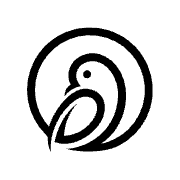
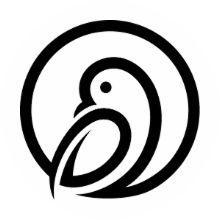
Improve image preloading and loading states in gallery and home
Refactored Gallery and Home components to preload images asynchronously and show loader only after a short delay, improving perceived performance and preventing flicker. Enhanced error handling and code readability. Updated apple-touch-icon.png.

diff --git a/frontend/src/components/Gallery/Gallery.tsx b/frontend/src/components/Gallery/Gallery.tsx
@@ -11,10 +11,10 @@ import Lightbox from "yet-another-react-lightbox";
 import Fullscreen from "yet-another-react-lightbox/plugins/fullscreen";
 import Slideshow from "yet-another-react-lightbox/plugins/slideshow";
 import "yet-another-react-lightbox/styles.css";
-// dnd-kit (drag and drop kit)
+// dnd-kit
 import { arrayMove } from "@dnd-kit/sortable";
 import SortableGallery from "../SortableGallery/SortableGallery";
-import { useResponsiveRowHeight } from "../../hooks/useResponsiveRowHeight"; //
+import { useResponsiveRowHeight } from "../../hooks/useResponsiveRowHeight";
 // Sanity
 import sanityClient from "../../sanityClient";
 
@@ -36,39 +36,29 @@ const Gallery = () => {
   const targetRowHeight = useResponsiveRowHeight();
   const { id } = useParams<{ id: string }>();
   const [photos, setPhotos] = useState<
-    {
-      id: string;
-      src: string;
-      alt: string;
-      width: number;
-      height: number;
-      lqip?: string;
-    }[]
+    { id: string; src: string; alt: string; width: number; height: number; lqip?: string }[]
   >([]);
-
   const [index, setIndex] = useState<number | null>(null);
   const [loading, setLoading] = useState(true);
+  const [imagesLoaded, setImagesLoaded] = useState(false);
   const [showLoader, setShowLoader] = useState(false);
 
-  // save order after photo drag and srop
+  // Save new order after drag & drop
   async function saveOrderToSanity(newPhotos: { id: string }[]) {
     try {
-      const newOrder = newPhotos.map((p) => ({
-        _type: "reference",
-        _ref: p.id,
-      }));
-
+      const newOrder = newPhotos.map((p) => ({ _type: "reference", _ref: p.id }));
       await sanityClient.patch(id!).set({ photos: newOrder }).commit();
-
       console.log("Saved new order to Sanity:", newOrder);
     } catch (err) {
       console.error("Error saving new photo order:", err);
     }
   }
 
+  // Fetch photos from Sanity
   useEffect(() => {
     async function fetchPhotos() {
       setLoading(true);
+      setImagesLoaded(false);
       try {
         const query = `*[_type == "album" && _id == $id][0]{
           title,
@@ -86,12 +76,11 @@ const Gallery = () => {
             }
           }
         }`;
-
-        const album: { photos?: Photo[] } = await sanityClient.fetch(query, {
-          id,
-        });
-        if (!album?.photos) return;
-
+        const album: { photos?: Photo[] } = await sanityClient.fetch(query, { id });
+        if (!album?.photos) {
+          setPhotos([]);
+          return;
+        }
         const mapped = album.photos.map((item) => ({
           id: item._id,
           src: item.image.asset.url,
@@ -100,40 +89,85 @@ const Gallery = () => {
           height: item.image.asset.metadata.dimensions.height,
           lqip: item.image.asset.metadata.lqip,
         }));
-
         setPhotos(mapped);
-        setLoading(false);
       } catch (err) {
         console.error("Error fetching photos:", err);
+        setPhotos([]);
+      } finally {
+        setLoading(false);
       }
     }
 
     fetchPhotos();
   }, [id]);
 
+  // Preload all images
+  useEffect(() => {
+    if (photos.length === 0) {
+      setImagesLoaded(false);
+      return;
+    }
+
+    let isCancelled = false;
+
+    async function preloadImages() {
+      try {
+        const promises = photos.map(
+          (photo) =>
+            new Promise<void>((resolve) => {
+              const img = new Image();
+              img.src = photo.src;
+              if (img.complete) {
+                resolve();
+              } else {
+                img.onload = () => resolve();
+                img.onerror = () => resolve();
+              }
+            })
+        );
+        await Promise.all(promises);
+        if (!isCancelled) setImagesLoaded(true);
+      } catch (err) {
+        console.error("Error preloading images:", err);
+        if (!isCancelled) setImagesLoaded(true); // fail-safe
+      }
+    }
+
+    preloadImages();
+
+    return () => {
+      isCancelled = true;
+    };
+  }, [photos]);
+
+  // Show loader after a short delay to prevent flicker
   useEffect(() => {
     const t = setTimeout(() => setShowLoader(true), 200);
     return () => clearTimeout(t);
   }, []);
 
+  // Early return until data & images are loaded
+  if (loading || !imagesLoaded) {
+    return (
+      <>
+        <StickyLinks />
+        {showLoader && <Loader />}
+      </>
+    );
+  }
+
   return (
     <>
       <StickyLinks />
-      {showLoader && loading && <Loader />}
-
       <SortableGallery
         gallery={RowsPhotoAlbum}
         spacing={10}
         photos={photos}
-        layoutOptions={{
-          targetRowHeight,
-        }}
+        layoutOptions={{ targetRowHeight }}
         onClick={({ index: photoIndex }) => setIndex(photoIndex)}
         movePhoto={(oldIndex, newIndex) => {
           const newOrder = arrayMove(photos, oldIndex, newIndex);
           setPhotos(newOrder);
-
-          // Save to Sanity:
           saveOrderToSanity(newOrder);
         }}
       />
@@ -144,10 +178,7 @@ const Gallery = () => {
           close={() => setIndex(null)}
           plugins={[Fullscreen, Slideshow]}
           index={index}
-          slides={photos.map((p) => ({
-            src: p.src,
-            title: p.alt,
-          }))}
+          slides={photos.map((p) => ({ src: p.src, title: p.alt }))}
         />
       )}
     </>

diff --git a/frontend/src/components/Home/Home.tsx b/frontend/src/components/Home/Home.tsx
@@ -20,9 +20,9 @@ const Home = () => {
   const [imagesLoaded, setImagesLoaded] = useState(false);
   const containerRef = useRef<HTMLDivElement | null>(null);
 
-  // Fetch albums
+  // Fetch albums using async/await
   useEffect(() => {
-    async function fetchAlbums() {
+    const fetchAlbums = async () => {
       try {
         const query = `*[_type == "album"]{
           _id,
@@ -43,34 +43,39 @@ const Home = () => {
         console.error("Error fetching albums:", err);
         setLoading(false);
       }
-    }
+    };
 
     fetchAlbums();
   }, []);
 
-  // Preload all album cover images
+  // Preload all album cover images using async/await
   useEffect(() => {
     if (albums.length === 0) return;
 
-    const promises = albums.map((album) => {
-      const imgUrl = album.coverImage?.asset?.url;
-      if (!imgUrl) return Promise.resolve(true); // skip if no cover image
-      const img = new Image();
-      img.src = imgUrl;
-      return new Promise((resolve) => {
-        img.onload = () => resolve(true);
-        img.onerror = () => resolve(true);
-      });
-    });
+    const preloadImages = async () => {
+      const promises = albums.map(async (album) => {
+        const imgUrl = album.coverImage?.asset?.url;
+        if (!imgUrl) return true;
 
-    Promise.all(promises).then(() => setImagesLoaded(true));
+        return new Promise((resolve) => {
+          const img = new Image();
+          img.src = imgUrl;
+          img.onload = () => resolve(true);
+          img.onerror = () => resolve(true);
+        });
+      });
+
+      await Promise.all(promises);
+      setImagesLoaded(true);
+    };
+
+    preloadImages();
   }, [albums]);
 
   // AUTO SCROLL (desktop only)
   useEffect(() => {
     const container = containerRef.current;
     if (!container || albums.length === 0) return;
-
     if (window.innerWidth < 768) return;
 
     let count = 0;
@@ -93,7 +98,6 @@ const Home = () => {
       }
 
       count++;
-
       const cards = container.children;
       const nextIndex = count;
 
@@ -120,7 +124,7 @@ const Home = () => {
     };
   }, [albums]);
 
-  // Show loader if albums are still loading OR images haven't loaded yet
+  // Show loader if albums or images are still loading
   if (loading || !imagesLoaded) {
     return (
       <>
